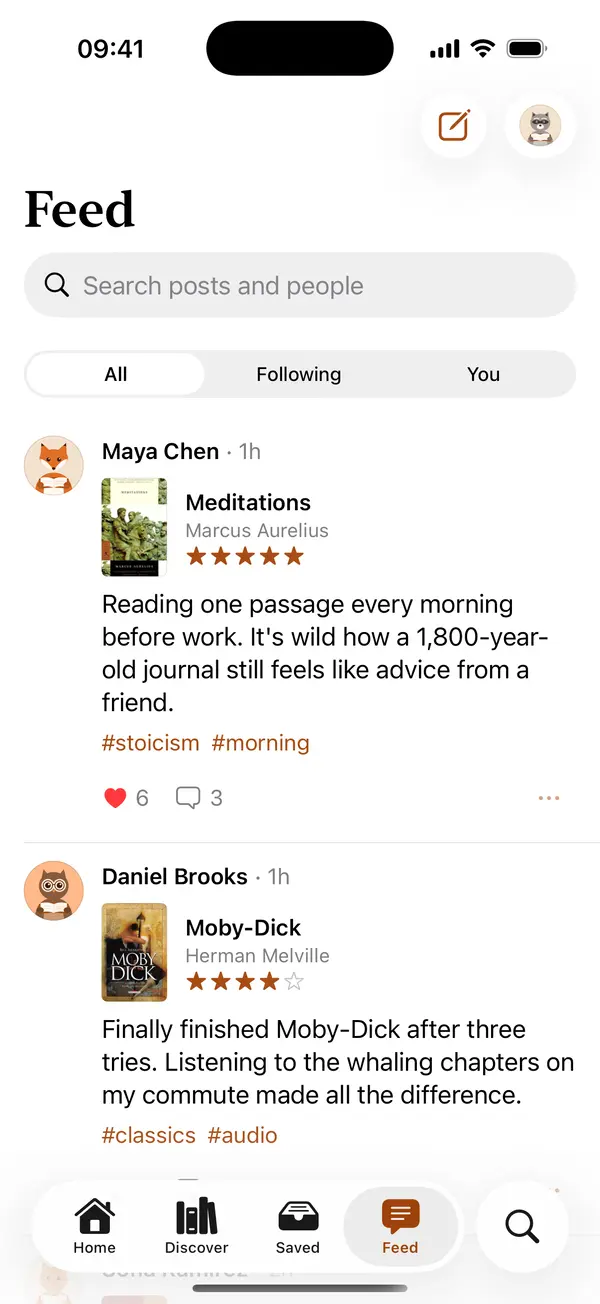
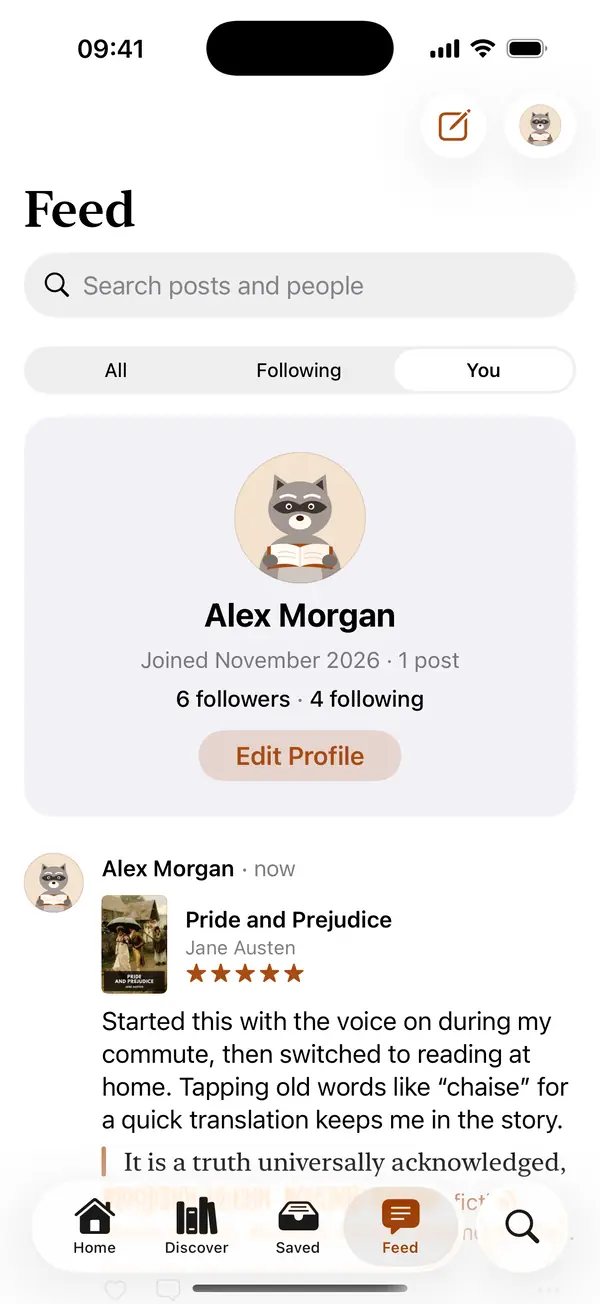
bookmuse: drop the Features menu item, reword the languages FAQ, safer feed image
The feed screenshot now shows only the public-domain Pride and Prejudice cover.

diff --git a/sites/bookmuse/public/vi/index.html b/sites/bookmuse/public/vi/index.html
@@ -124,7 +124,7 @@
         <article class="step" data-story="2">
           <h2>Bảng tin cho người đọc sách.</h2>
           <p>Đăng về cuốn bạn đang đọc, kèm đánh giá hoặc một trích dẫn yêu thích, và theo dõi những người đọc bạn thích.</p>
-          <div class="inline"><div class="phone"><div class="bezel"><div class="screen"><img src="/assets/landing/feed.webp" alt="Bảng tin Bookmuse với bài đăng của người đọc" width="600" height="1305" loading="lazy" decoding="async"><span class="island"></span></div></div></div></div>
+          <div class="inline"><div class="phone"><div class="bezel"><div class="screen"><img src="/assets/landing/feed.webp" alt="Hồ sơ người đọc trong Bảng tin với bài đăng về Pride and Prejudice" width="600" height="1305" loading="lazy" decoding="async"><span class="island"></span></div></div></div></div>
         </article>
         <article class="step" data-story="3">
           <h2>Drive và Dropbox, ngay trong ứng dụng.</h2>
@@ -141,7 +141,7 @@
           <div class="phone"><div class="bezel"><div class="screen">
           <div class="scr scr-0"><video data-auto data-step="0" src="https://media.wanngo.com/bookmuse/landing/ask.mp4" poster="/assets/landing/ask.webp" muted loop playsinline preload="none" aria-label="Hỏi AI về cuốn sách"></video></div>
           <div class="scr scr-1"><video data-auto data-step="1" src="https://media.wanngo.com/bookmuse/landing/summary.mp4" poster="/assets/landing/summary.webp" muted loop playsinline preload="none" aria-label="Lướt các bản tóm tắt và mở một bản để nghe hoặc đọc"></video></div>
-          <div class="scr scr-2"><img src="/assets/landing/feed.webp" alt="Bảng tin Bookmuse với bài đăng của người đọc" width="600" height="1305" loading="lazy" decoding="async"></div>
+          <div class="scr scr-2"><img src="/assets/landing/feed.webp" alt="Hồ sơ người đọc trong Bảng tin với bài đăng về Pride and Prejudice" width="600" height="1305" loading="lazy" decoding="async"></div>
           <div class="scr scr-3"><video data-auto data-step="3" src="https://media.wanngo.com/bookmuse/landing/import.mp4" poster="/assets/landing/import.webp" muted loop playsinline preload="none" aria-label="Thêm sách từ Tệp, Google Drive hoặc Dropbox"></video></div>
           <div class="scr scr-4"><video data-auto data-step="4" src="https://media.wanngo.com/bookmuse/landing/words.mp4" poster="/assets/landing/words.webp" muted loop playsinline preload="none" aria-label="Tra một từ, lưu lại và ôn tập"></video></div>
             <span class="island"></span>

diff --git a/sites/bookmuse/public/es/index.html b/sites/bookmuse/public/es/index.html
@@ -124,7 +124,7 @@
         <article class="step" data-story="2">
           <h2>Una comunidad de lectores.</h2>
           <p>Publica sobre lo que estás leyendo, con una valoración o una cita favorita, y sigue a los lectores que te gusten.</p>
-          <div class="inline"><div class="phone"><div class="bezel"><div class="screen"><img src="/assets/landing/feed.webp" alt="El feed de Bookmuse con publicaciones de lectores" width="600" height="1305" loading="lazy" decoding="async"><span class="island"></span></div></div></div></div>
+          <div class="inline"><div class="phone"><div class="bezel"><div class="screen"><img src="/assets/landing/feed.webp" alt="Perfil de un lector en la comunidad con una publicación sobre Pride and Prejudice" width="600" height="1305" loading="lazy" decoding="async"><span class="island"></span></div></div></div></div>
         </article>
         <article class="step" data-story="3">
           <h2>Tu Drive y Dropbox, dentro de la app.</h2>
@@ -141,7 +141,7 @@
           <div class="phone"><div class="bezel"><div class="screen">
           <div class="scr scr-0"><video data-auto data-step="0" src="https://media.wanngo.com/bookmuse/landing/ask.mp4" poster="/assets/landing/ask.webp" muted loop playsinline preload="none" aria-label="Preguntando a la IA sobre el libro"></video></div>
           <div class="scr scr-1"><video data-auto data-step="1" src="https://media.wanngo.com/bookmuse/landing/summary.mp4" poster="/assets/landing/summary.webp" muted loop playsinline preload="none" aria-label="Explorando resúmenes y abriendo uno para escuchar o leer"></video></div>
-          <div class="scr scr-2"><img src="/assets/landing/feed.webp" alt="El feed de Bookmuse con publicaciones de lectores" width="600" height="1305" loading="lazy" decoding="async"></div>
+          <div class="scr scr-2"><img src="/assets/landing/feed.webp" alt="Perfil de un lector en la comunidad con una publicación sobre Pride and Prejudice" width="600" height="1305" loading="lazy" decoding="async"></div>
           <div class="scr scr-3"><video data-auto data-step="3" src="https://media.wanngo.com/bookmuse/landing/import.mp4" poster="/assets/landing/import.webp" muted loop playsinline preload="none" aria-label="Añadiendo libros desde Archivos, Google Drive o Dropbox"></video></div>
           <div class="scr scr-4"><video data-auto data-step="4" src="https://media.wanngo.com/bookmuse/landing/words.mp4" poster="/assets/landing/words.webp" muted loop playsinline preload="none" aria-label="Buscando una palabra, guardándola y repasándola"></video></div>
             <span class="island"></span>

diff --git a/sites/bookmuse/public/index.html b/sites/bookmuse/public/index.html
@@ -124,7 +124,7 @@
         <article class="step" data-story="2">
           <h2>A feed for people who read.</h2>
           <p>Post about what you're reading, with a rating or a favourite quote, and follow the readers you like.</p>
-          <div class="inline"><div class="phone"><div class="bezel"><div class="screen"><img src="/assets/landing/feed.webp" alt="The Bookmuse Feed with posts from readers" width="600" height="1305" loading="lazy" decoding="async"><span class="island"></span></div></div></div></div>
+          <div class="inline"><div class="phone"><div class="bezel"><div class="screen"><img src="/assets/landing/feed.webp" alt="A reader&#39;s Feed profile with a post about Pride and Prejudice" width="600" height="1305" loading="lazy" decoding="async"><span class="island"></span></div></div></div></div>
         </article>
         <article class="step" data-story="3">
           <h2>Your Drive and Dropbox, right in the app.</h2>
@@ -141,7 +141,7 @@
           <div class="phone"><div class="bezel"><div class="screen">
           <div class="scr scr-0"><video data-auto data-step="0" src="https://media.wanngo.com/bookmuse/landing/ask.mp4" poster="/assets/landing/ask.webp" muted loop playsinline preload="none" aria-label="Asking AI about the book"></video></div>
           <div class="scr scr-1"><video data-auto data-step="1" src="https://media.wanngo.com/bookmuse/landing/summary.mp4" poster="/assets/landing/summary.webp" muted loop playsinline preload="none" aria-label="Browsing summaries and opening one to listen or read"></video></div>
-          <div class="scr scr-2"><img src="/assets/landing/feed.webp" alt="The Bookmuse Feed with posts from readers" width="600" height="1305" loading="lazy" decoding="async"></div>
+          <div class="scr scr-2"><img src="/assets/landing/feed.webp" alt="A reader&#39;s Feed profile with a post about Pride and Prejudice" width="600" height="1305" loading="lazy" decoding="async"></div>
           <div class="scr scr-3"><video data-auto data-step="3" src="https://media.wanngo.com/bookmuse/landing/import.mp4" poster="/assets/landing/import.webp" muted loop playsinline preload="none" aria-label="Adding books from Files, Google Drive or Dropbox"></video></div>
           <div class="scr scr-4"><video data-auto data-step="4" src="https://media.wanngo.com/bookmuse/landing/words.mp4" poster="/assets/landing/words.webp" muted loop playsinline preload="none" aria-label="Looking up a word, saving it and reviewing it"></video></div>
             <span class="island"></span>

diff --git a/sites/bookmuse/public/vi/support/index.html b/sites/bookmuse/public/vi/support/index.html
@@ -30,7 +30,6 @@
     <div class="wrap">
       <a class="brand" href="/vi/" aria-label="Trang chủ Bookmuse"><img src="/assets/icon.png" alt="" width="32" height="32">Bookmuse</a>
       <nav class="nav-links" aria-label="Điều hướng chính">
-        <a href="/vi/">Tính năng</a>
         <a href="/vi/support/#faq">Hỏi đáp</a>
         <a href="/vi/privacy/">Quyền riêng tư</a>
         <a class="btn btn-primary btn-sm" href="https://apps.apple.com/us/app/bookmuse-ai-reading-companion/id6815728446">Tải về</a>
@@ -146,7 +145,7 @@
         </div>
       </details>
       <details>
-        <summary>Tôi có thể học những ngôn ngữ nào?</summary>
+        <summary>Bookmuse dịch được những ngôn ngữ nào?</summary>
         <div class="answer">
           <p>Bất kỳ cặp ngôn ngữ nào Dịch của Apple hỗ trợ, và với BookMuse AI, hầu như mọi ngôn ngữ mà nó hiểu. Bản thân Bookmuse có tiếng Anh, tiếng Việt và tiếng Tây Ban Nha.</p>
         </div>

diff --git a/sites/bookmuse/public/es/support/index.html b/sites/bookmuse/public/es/support/index.html
@@ -30,7 +30,6 @@
     <div class="wrap">
       <a class="brand" href="/es/" aria-label="Inicio de Bookmuse"><img src="/assets/icon.png" alt="" width="32" height="32">Bookmuse</a>
       <nav class="nav-links" aria-label="Principal">
-        <a href="/es/">Funciones</a>
         <a href="/es/support/#faq">Preguntas</a>
         <a href="/es/privacy/">Privacidad</a>
         <a class="btn btn-primary btn-sm" href="https://apps.apple.com/us/app/bookmuse-ai-reading-companion/id6815728446">Descargar</a>
@@ -146,7 +145,7 @@
         </div>
       </details>
       <details>
-        <summary>¿Qué idiomas puedo aprender?</summary>
+        <summary>¿Qué idiomas puede traducir Bookmuse?</summary>
         <div class="answer">
           <p>Cualquier par de idiomas que admita la traducción de Apple y, con BookMuse AI, casi cualquier idioma que entienda. Bookmuse está en inglés, vietnamita y español.</p>
         </div>

diff --git a/sites/bookmuse/public/support/index.html b/sites/bookmuse/public/support/index.html
@@ -30,7 +30,6 @@
     <div class="wrap">
       <a class="brand" href="/" aria-label="Bookmuse home"><img src="/assets/icon.png" alt="" width="32" height="32">Bookmuse</a>
       <nav class="nav-links" aria-label="Main">
-        <a href="/">Features</a>
         <a href="/support/#faq">FAQ</a>
         <a href="/privacy/">Privacy</a>
         <a class="btn btn-primary btn-sm" href="https://apps.apple.com/us/app/bookmuse-ai-reading-companion/id6815728446">Download</a>
@@ -146,7 +145,7 @@
         </div>
       </details>
       <details>
-        <summary>Which languages can I learn?</summary>
+        <summary>Which languages can Bookmuse translate?</summary>
         <div class="answer">
           <p>Any language pair Apple Translation supports, and with BookMuse AI, almost any language it understands. Bookmuse itself speaks English, Vietnamese and Spanish.</p>
         </div>

diff --git a/sites/bookmuse/public/vi/delete-account/index.html b/sites/bookmuse/public/vi/delete-account/index.html
@@ -30,7 +30,6 @@
     <div class="wrap">
       <a class="brand" href="/vi/" aria-label="Trang chủ Bookmuse"><img src="/assets/icon.png" alt="" width="32" height="32">Bookmuse</a>
       <nav class="nav-links" aria-label="Điều hướng chính">
-        <a href="/vi/">Tính năng</a>
         <a href="/vi/support/#faq">Hỏi đáp</a>
         <a href="/vi/support/">Hỗ trợ</a>
         <a class="btn btn-primary btn-sm" href="https://apps.apple.com/us/app/bookmuse-ai-reading-companion/id6815728446">Tải về</a>

diff --git a/sites/bookmuse/public/vi/privacy/index.html b/sites/bookmuse/public/vi/privacy/index.html
@@ -30,7 +30,6 @@
     <div class="wrap">
       <a class="brand" href="/vi/" aria-label="Trang chủ Bookmuse"><img src="/assets/icon.png" alt="" width="32" height="32">Bookmuse</a>
       <nav class="nav-links" aria-label="Điều hướng chính">
-        <a href="/vi/">Tính năng</a>
         <a href="/vi/support/#faq">Hỏi đáp</a>
         <a href="/vi/support/">Hỗ trợ</a>
         <a class="btn btn-primary btn-sm" href="https://apps.apple.com/us/app/bookmuse-ai-reading-companion/id6815728446">Tải về</a>

diff --git a/sites/bookmuse/public/es/delete-account/index.html b/sites/bookmuse/public/es/delete-account/index.html
@@ -30,7 +30,6 @@
     <div class="wrap">
       <a class="brand" href="/es/" aria-label="Inicio de Bookmuse"><img src="/assets/icon.png" alt="" width="32" height="32">Bookmuse</a>
       <nav class="nav-links" aria-label="Principal">
-        <a href="/es/">Funciones</a>
         <a href="/es/support/#faq">Preguntas</a>
         <a href="/es/support/">Soporte</a>
         <a class="btn btn-primary btn-sm" href="https://apps.apple.com/us/app/bookmuse-ai-reading-companion/id6815728446">Descargar</a>

diff --git a/sites/bookmuse/public/es/privacy/index.html b/sites/bookmuse/public/es/privacy/index.html
@@ -30,7 +30,6 @@
     <div class="wrap">
       <a class="brand" href="/es/" aria-label="Inicio de Bookmuse"><img src="/assets/icon.png" alt="" width="32" height="32">Bookmuse</a>
       <nav class="nav-links" aria-label="Principal">
-        <a href="/es/">Funciones</a>
         <a href="/es/support/#faq">Preguntas</a>
         <a href="/es/support/">Soporte</a>
         <a class="btn btn-primary btn-sm" href="https://apps.apple.com/us/app/bookmuse-ai-reading-companion/id6815728446">Descargar</a>

diff --git a/sites/bookmuse/public/delete-account/index.html b/sites/bookmuse/public/delete-account/index.html
@@ -30,7 +30,6 @@
     <div class="wrap">
       <a class="brand" href="/" aria-label="Bookmuse home"><img src="/assets/icon.png" alt="" width="32" height="32">Bookmuse</a>
       <nav class="nav-links" aria-label="Main">
-        <a href="/">Features</a>
         <a href="/support/#faq">FAQ</a>
         <a href="/support/">Support</a>
         <a class="btn btn-primary btn-sm" href="https://apps.apple.com/us/app/bookmuse-ai-reading-companion/id6815728446">Download</a>

diff --git a/sites/bookmuse/public/privacy/index.html b/sites/bookmuse/public/privacy/index.html
@@ -30,7 +30,6 @@
     <div class="wrap">
       <a class="brand" href="/" aria-label="Bookmuse home"><img src="/assets/icon.png" alt="" width="32" height="32">Bookmuse</a>
       <nav class="nav-links" aria-label="Main">
-        <a href="/">Features</a>
         <a href="/support/#faq">FAQ</a>
         <a href="/support/">Support</a>
         <a class="btn btn-primary btn-sm" href="https://apps.apple.com/us/app/bookmuse-ai-reading-companion/id6815728446">Download</a>
